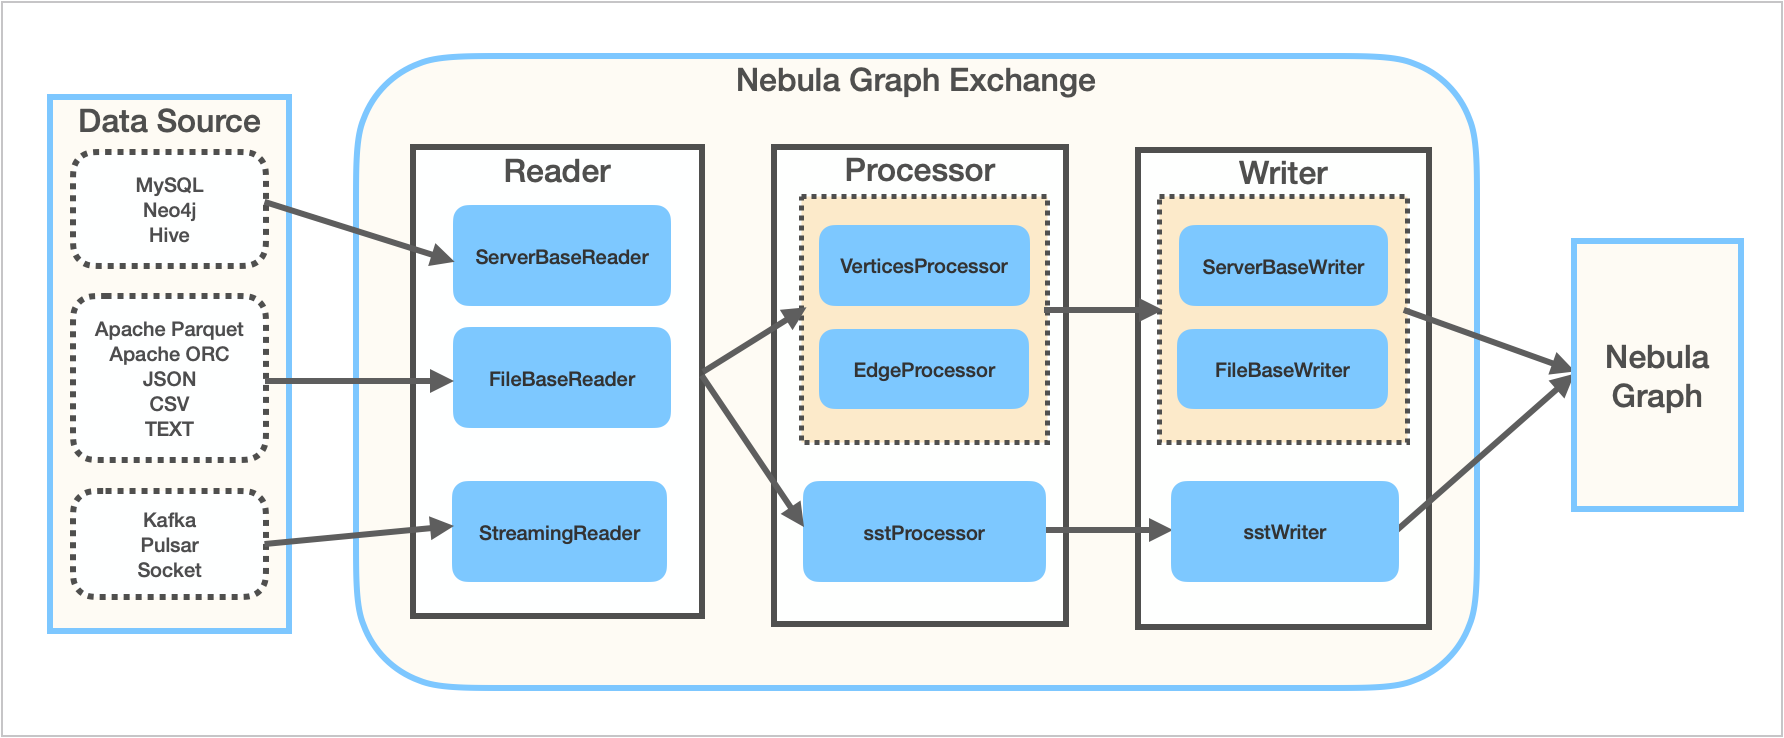
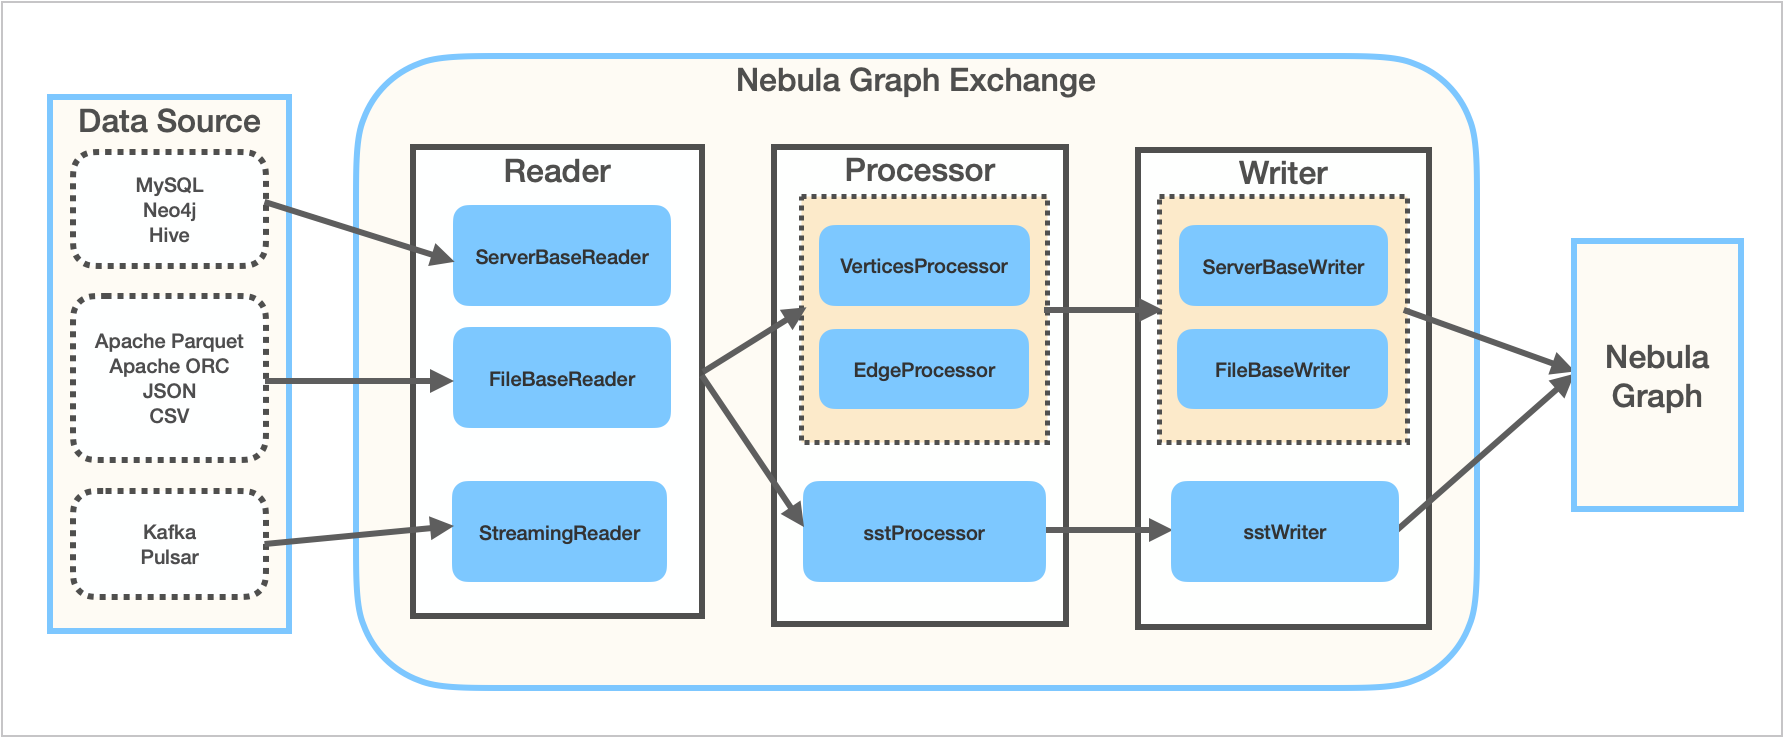
remove Socket and TXT && fix table error

Changed region(s): [[0.0308, 0.4363, 0.1541, 0.5921], [0.0617, 0.6856, 0.1233, 0.7791]]

diff --git a/doc/tools/exchange/parameter-reference/ex-ug-paras-hdfs.md b/doc/tools/exchange/parameter-reference/ex-ug-paras-hdfs.md
@@ -5,7 +5,7 @@
 | 参数 | 默认值 | 数据类型 | 是否必需 | 说明 |
 | :--- | :--- | :--- | :--- | :--- |
 | tags.name | 无 | string | 是 | 设置为 Nebula Graph 中的标签名称。 |
-| tags.type.source | 无 | string | 是 | 指定标签源数据的格式。可以设置为以下值：<br />- parquet<br />- csv<br />- json<br />- txt<br />- orc<br /> |
+| tags.type.source | 无 | string | 是 | 指定标签源数据的格式。可以设置为以下值：<br />- parquet<br />- csv<br />- json<br />- orc |
 | tags.type.sink | 无 | string | 是 | 指定标签数据导入 Nebula Graph 的方式。可以设置为：<br />- client：以客户端形式导入<br />- sst：以 SST 文件格式导入 |
 | tags.path | 无 | string | 是 | 指定获取标签源数据的 HDFS 路径。路径名称可以选择以 hdfs 开头。 |
 | tags.fileds | 无 | list[string] | 是 | 指定源数据中与 Nebula Graph 标签对应的属性名称。以列表形式列出，多个属性名称之间以英文逗号隔开。 |
@@ -16,7 +16,7 @@
 | tags.batch | 256 | int | 是 | 单次写入 Nebula Graph 的点数据量。 |
 | tags.partition | 32 | int | 是 | Spark 的分区数量。`【根据什么来判断数量】` |
 | edges.name | 无 | string | 是 | 指定 Nebula Graph 中的边类型名称。 |
-| edges.type.source | 无 | string | 是 | 指定边类型源数据格式。可以设置为以下值：<br />- parquet<br />- csv<br />- json<br />- txt<br />- orc |
+| edges.type.source | 无 | string | 是 | 指定边类型源数据格式。可以设置为以下值：<br />- parquet<br />- csv<br />- json<br />- orc |
 | edges.type.sink | 无 | string | 是 | 指定边类型源数据导入 Nebula Graph 的方式。可以设置为：<br />- client：表示以客户端形式导入<br />- sst：表示以 SST 文件格式导入 |
 | edges.path | 无 | string | 是 | 指定获取边类型数据的 HDFS 路径。路径名称可以选择以 `hdfs` 开头。 |
 | edges.fields | 无 | list[string] | 是 | 指定源数据中与 Nebula Graph 边类型对应的属性名称。以列表形式列出，多个属性名称之间以英文逗号隔开。 |

diff --git a/doc/tools/exchange/parameter-reference/ex-ug-para-import-command.md b/doc/tools/exchange/parameter-reference/ex-ug-para-import-command.md
@@ -9,11 +9,11 @@ $SPARK_HOME/bin/spark-submit  --class com.vesoft.nebula.tools.importer.Exchange 
 下表列出了命令的相关参数。
 
 | 参数 | 是否必需 | 默认值 | 说明 |
-| :--- | :--- | :--- | :--- | :--- |
+| :--- | :--- | :--- | :--- |
 | `--class`  | 是 | 无 | 指定 Driver 主类。 |
 | `--master`  | 是 | 无 | 指定 Spark 集群中Master 进程的 URL。详细信息，参考 [master-urls](https://spark.apache.org/docs/latest/submitting-applications.html#master-urls "点击前往 Apache Spark 文档")。 |
 | `-c`  / `--config`  | 是 | 无 | Spark 配置文件文件路径。 |
 | `-h`  / `--hive`  | 否 | true | 用于指定是否支持 Hive：<br />- `true`：支持 HIVE。<br />- `false`：不支持 HIVE。 |
-| `-d`  / `--directly`  | 否 | true | 选择数据导入方式：<br />- `true`：以客户端方式插入 <br />- `false` ： 以 SST 文件方式导入 |
+| `-d`  / `--directly`  | 否 | true | 选择数据导入方式：<br />- `true`：以客户端方式插入 <br />- `false` ：以 SST 文件方式导入 |
 | `-D`  / `--dry`  | 否 | true | 检查配置文件是否正确：<br />- `true`：表示开启这个功能。<br />- `false`：表示关闭这个功能。 |
 | `r` / `--reload`  | 否 | 无 | 表示回放流程？怎么设置？（来源：[https://github.com/vesoft-inc/nebula-java/blob/bf9c7a16bd4e2216ba8974d926a8add0b74852eb/tools/exchange/src/main/scala/com/vesoft/nebula/tools/importer/config/Configs.scala#L664](https://github.com/vesoft-inc/nebula-java/blob/bf9c7a16bd4e2216ba8974d926a8add0b74852eb/tools/exchange/src/main/scala/com/vesoft/nebula/tools/importer/config/Configs.scala#L664)） |

diff --git a/doc/tools/exchange/about-exchange/ex-ug-what-is-exchange.md b/doc/tools/exchange/about-exchange/ex-ug-what-is-exchange.md
@@ -10,8 +10,8 @@ Exchange 由 Reader、Processor 和 Writer 三部分组成。Reader 读取不同
 
 Exchange 可被用于以下场景：
 
-- 您想将来自 Socket 或者 Kafka、Pulsar 平台的流式数据，如日志文件、网购数据、游戏内玩家活动、社交网站信息、金融交易大厅或地理空间服务，以及来自数据中心内所连接设备或仪器的遥测数据等转化为属性图的点或边数据，并导入 Nebula Graph。
-- 您想从关系型数据库（如 MySQL）或者分布式文件系统（如 HDFS）中读取批式数据，如某个时间段内的将它们转化为属性图的点或边数据，并导入 Nebula Graph。
+- 您想将来自 Kafka、Pulsar 平台的流式数据，如日志文件、网购数据、游戏内玩家活动、社交网站信息、金融交易大厅或地理空间服务，以及来自数据中心内所连接设备或仪器的遥测数据等转化为属性图的点或边数据，并导入 Nebula Graph。
+- 您想从关系型数据库（如 MySQL）或者分布式文件系统（如 HDFS）中读取批式数据，如某个时间段内的数据，将它们转化为属性图的点或边数据，并导入 Nebula Graph。
 - 您想将大批量数据生成 Nebula Graph 能识别的 SST 文件，再导入 Nebula Graph。
 
 ## 产品优点

diff --git a/doc/tools/exchange/parameter-reference/ex-ug-paras-spark.md b/doc/tools/exchange/parameter-reference/ex-ug-paras-spark.md
@@ -3,7 +3,7 @@
 下表列出在使用 Nebula Graph&reg; Exchange 导入数据时您需要设置的 Spark 相关参数。更多 Spark 参数配置信息，参考[《Apache Spark 文档》](https://spark.apache.org/docs/latest/configuration.html#application-properties "点击前往 Apache Spark 文档")。实际应用时的参数设置，参考不同来源数据的 [操作示例](../use-exchange/ex-ug-import-from-neo4j.md)。
 
 | 参数 | 默认值 | 数据类型 | 是否必需 | 说明 |
-| --- | --- | :--- | --- | --- |
+| :--- | :--- | :--- | :--- | :--- |
 | spark.app.name | Spark Writer`（需要改成 Exchange 吗？如果要改，github 上的示例配置文件里也需要改一下？）` | string | 否 | Spark Driver Program 名称 |
 | spark.driver.cores | 1 | int | 否 | Driver 进程的核数，仅适用于集群模式。`（如果不是集群，就不需要设置？）` |
 | spark.driver.maxResultSize | 1G | string | 否 | 每个 Spark 操作（例如收集）中所有分区的序列化结果的上限（以字节为单位）。最小值为 1M，设为 0 则表示无限制上限。 |

diff --git a/doc/tools/exchange/parameter-reference/ex-ug-error-message.md b/doc/tools/exchange/parameter-reference/ex-ug-error-message.md
@@ -1,9 +1,9 @@
-# 错误码
+# 错误信息
 
 下表列出了您在使用 Nebula Graph&reg; Exchange 时可能会收到的错误信息。
 
 | 错误信息 | 说明 | 解决方法 |
-|------|----|------|
+|:---|:---|:---|
 |You can't write vertex and source or target field config same item in janus graph ${name}, " + s"because it use to judge it is edge or vertex!      |  ??   |  ??    |
 |  It shouldn't happen. Maybe something wrong ${janusGraphConfig}    |    |      |
 | ${category} not support     |  数据源格式不支持。  |  当前 Nebula Graph Exchange 仅支持部分格式的源数据。详细信息，参考 [使用限制](../../about-exchange/ex-ug-limitations)    |

diff --git a/doc/tools/exchange/ex-ug-toc.md b/doc/tools/exchange/ex-ug-toc.md
@@ -15,7 +15,6 @@
     - 导入 JanusGraph 数据【TODO】
     - 导入 Kafka 数据【TODO】
     - 导入 MySQL 数据【TODO】
-    - 导入 Socket 数据【TODO】
     - 导入 SST 文件【TODO】
 - 参数说明
   - [Spark 参数](parameter-reference/ex-ug-paras-spark.md)
@@ -27,6 +26,5 @@
     - Kafka 参数
     - MySQL 参数
     - Pulsar 参数
-    - Socket 参数
   - [导入命令参数](parameter-reference/ex-ug-para-import-command.md)
 - [错误信息](parameter-reference/ex-ug-error-message.md)

diff --git a/doc/tools/exchange/about-exchange/ex-ug-limitations.md b/doc/tools/exchange/about-exchange/ex-ug-limitations.md
@@ -30,10 +30,8 @@ Exchange 支持将以下格式或来源的数据转换为 Nebula Graph 能识别
   - Apache ORC
   - JSON
   - CSV
-  - TEXT
 - 数据仓库：HIVE
 - 图数据库：Neo4j 2.4.5-M1
 - 关系型数据库：MySQL
 - 流处理软件平台：Apache Kafka&reg;
 - 发布/订阅消息系统：Apache Pulsar 2.4.5
-- 网络流（Socket）

diff --git a/doc/tools/exchange/use-exchange/ex-ug-import-steps.md b/doc/tools/exchange/use-exchange/ex-ug-import-steps.md
@@ -30,4 +30,3 @@
 - 导入 MySQL 数据【TODO】
 - 导入 Kafka 数据【TODO】
 - 导入 Pulsar 数据【TODO】
-- 导入 Socket 数据【TODO】
